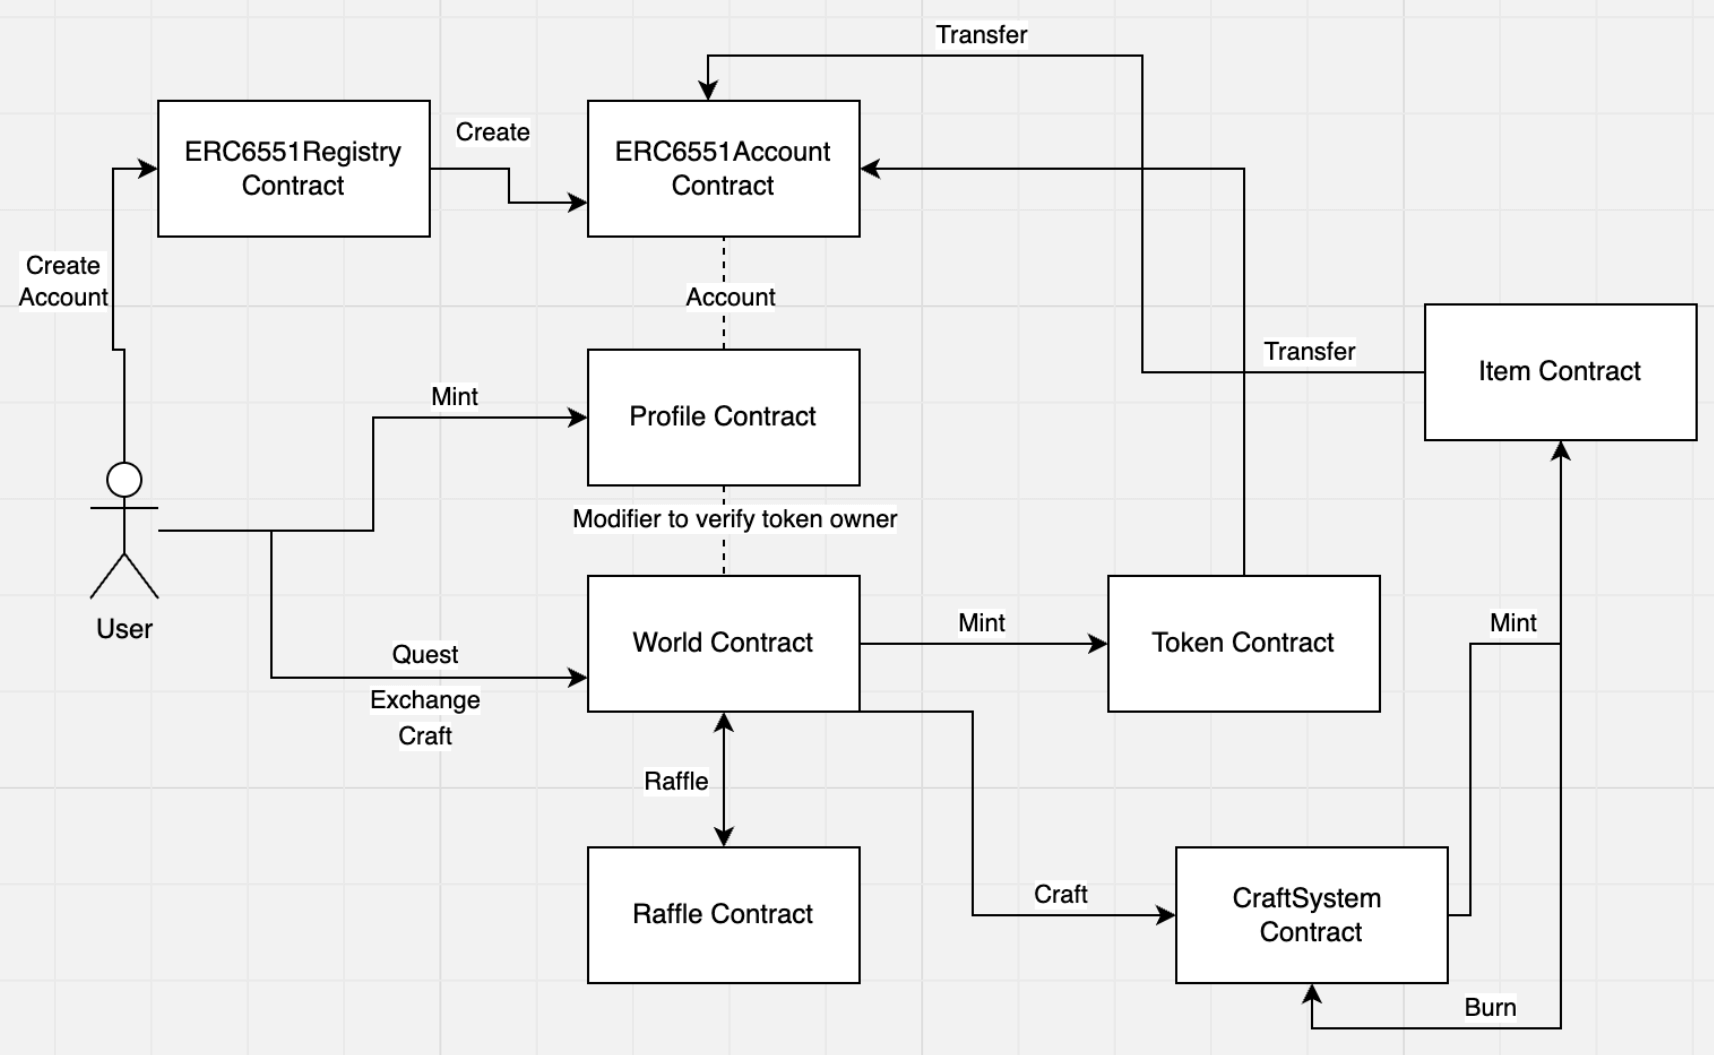
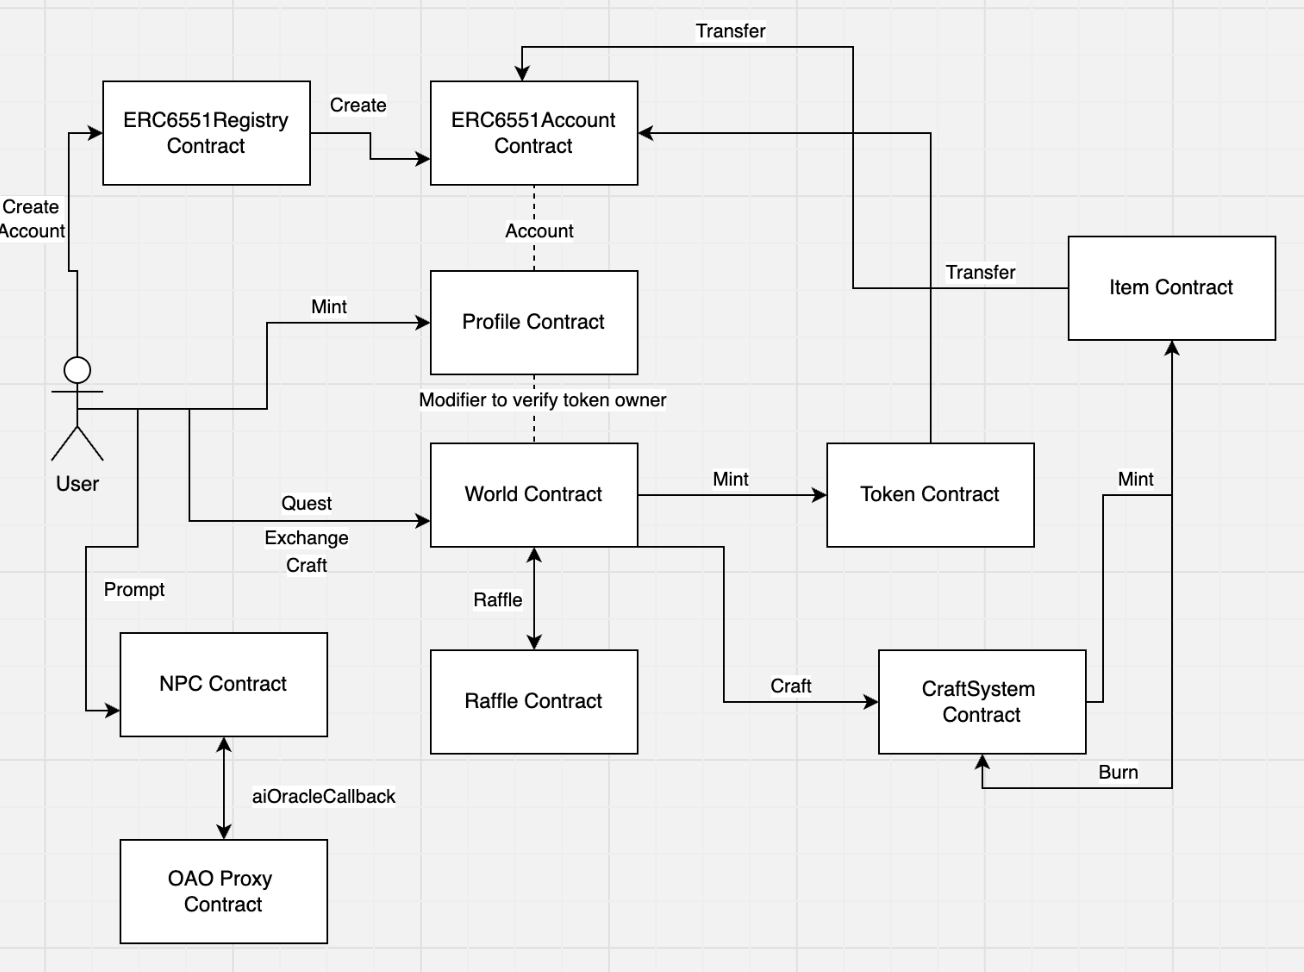
update README
update README

diff --git a/scripts/01_deploy_protocol.ts b/scripts/01_deploy_protocol.ts
@@ -11,6 +11,7 @@ async function main() {
   const item = await hre.viem.deployContract("Item", [owner, world.address, craft.address, ""]);
   const erc6551Account  = await hre.viem.deployContract("ERC6551Account");
   const erc6551Registry = await hre.viem.deployContract("ERC6551Registry");
+  const NPC = await hre.viem.deployContract("NPC", ["0x0A0f4321214BB6C7811dD8a71cF587bdaF03f0A0"]);
 
   await token.write.setWorld([world.address as `0x${string}`]);
   
@@ -34,6 +35,9 @@ async function main() {
   );
   console.log(
     `world address: ${world.address}`
+  )
+  console.log(
+    `NPC address: ${NPC.address}`
   )
 }
 
